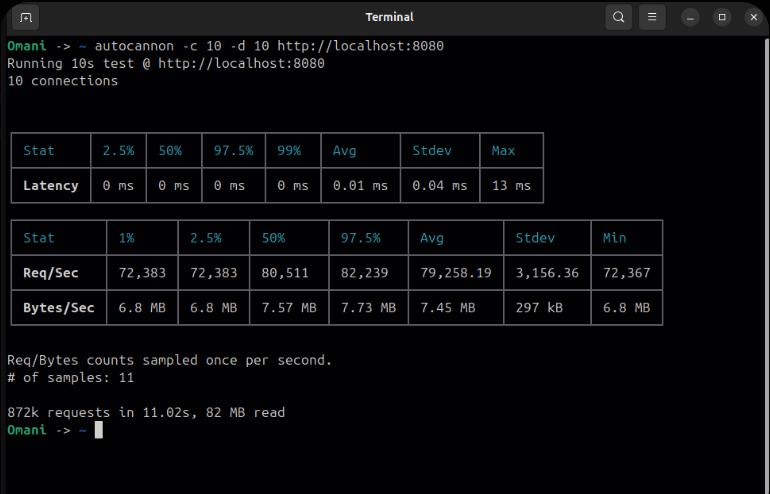
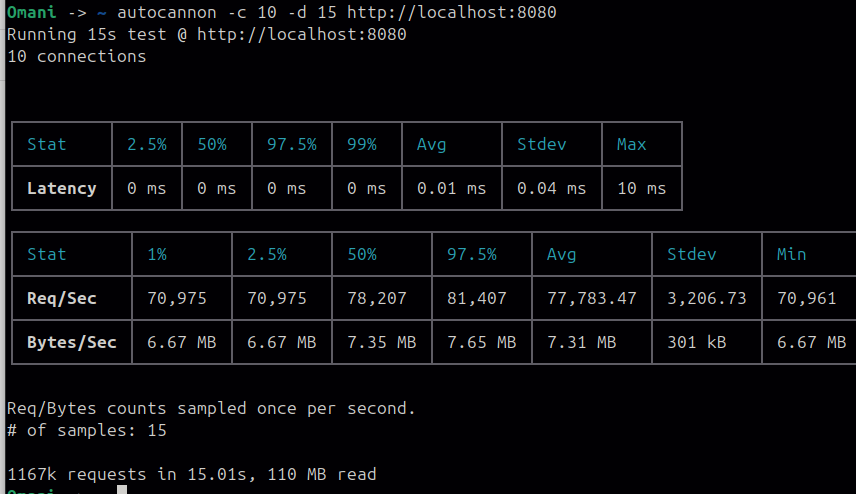
Implement reactor pattern for event handling & Add timeout feature to prevent DDoS attacks

Changed region(s): [[0.0, 0.0, 1.0, 1.0]]

diff --git a/TcpServer.cpp b/TcpServer.cpp
@@ -4,22 +4,28 @@
 #include <sys/socket.h>
 #include <unistd.h>
 #include <errno.h>
+#include <chrono>
+#include <cassert>
+#include <utility>
+#include <list>
+
+using namespace std;
 
 TcpServer::TcpServer(int port) {
-    if (setupSocket(port)) {
-        eventLoop.addEvent(serverSocket, EPOLLIN | EPOLLET);
-    }
+    int serverSocket = setupSocket(port);
+    this->acceptor = new Acceptor(this, serverSocket);
+    eventLoop.addEvent(this->acceptor, EPOLLIN | EPOLLET);
 }
 
 TcpServer::~TcpServer() {
     for (auto &pair: connections) {
-        delete pair.second;
+        delete pair.second.first;
     }
-    close(serverSocket);
+    close(acceptor->getFd());
 }
 
-bool TcpServer::setupSocket(int port) {
-    serverSocket = socket(AF_INET, SOCK_STREAM , 0);
+int TcpServer::setupSocket(int port) {
+    int serverSocket = socket(AF_INET, SOCK_STREAM , 0);
     int opt = 1;
     setsockopt(serverSocket , SOL_SOCKET , SO_REUSEADDR | SO_REUSEPORT , &opt , sizeof(opt));
 
@@ -30,37 +36,63 @@ bool TcpServer::setupSocket(int port) {
 
     bind(serverSocket , (struct sockaddr*)& address , sizeof(address));
     listen(serverSocket , SOMAXCONN);
-    return makeNonBlocking(serverSocket);
-}
-
-void TcpServer::handleNewConnection() {
-    while(true) {
-        struct sockaddr_in clientAddress;
-        socklen_t clientAddressLength = sizeof(clientAddress);
-        int clientSocket = accept(serverSocket , (struct sockaddr*)& clientAddress, &clientAddressLength);
-        
-        if (clientSocket == -1) {
-            if (errno == EAGAIN || errno == EWOULDBLOCK) break;
-            continue;
-        }
-
-        makeNonBlocking(clientSocket);
-        if(!eventLoop.addEvent(clientSocket , EPOLLIN | EPOLLET)) {
-            std::cout << "Failed to add client socket to epoll!" << std::endl;
-            close(clientSocket);
-            continue;
-        }
-
-        connections[clientSocket] = new Connection(clientSocket);
+    if(!makeNonBlocking(serverSocket)) {
+        cout << "Failed to make server socket non-blocking!" << endl;
+        exit(1);
     }
+    return serverSocket;
 }
+
 
 void TcpServer::removeClient(int clientFd) {
     auto it = connections.find(clientFd);
     if (it != connections.end()) {
-        delete it->second;
+        auto nodeList = it->second.second;
+        timeoutList.erase(nodeList);
+        delete it->second.first;
         connections.erase(it);
     }
+
+}
+
+void TcpServer::checkTimeout() {
+
+    if (timeoutList.empty()) return;
+
+    auto now = std::chrono::system_clock::now();
+    
+    while (true) {
+        auto it = timeoutList.begin();
+
+        if (it == timeoutList.end()) break;
+        
+        int fd = *it;
+        auto connection = connections[fd].first;
+        long long diff = chrono::duration_cast<chrono::seconds>(now - connection->getLastActiveTime()).count();
+        
+        if (diff < 3) 
+            break;
+
+        removeClient(fd);
+    }
+
+}
+
+void TcpServer::updateLastActiveTime(int fd) {
+    //1. One single hash map lookup.
+    auto &record = connections[fd]; // pair<Connection*, list<int>::iterator>
+    
+    //2. Update the last active time
+    record.first->setLastActiveTime(chrono::system_clock::now());
+
+    //3. O(1) Snip out the list using saved iterator
+    timeoutList.erase(record.second);
+
+    //4. O(1) Push back to the end of the list cause it is most recent connection
+    timeoutList.push_back(fd);
+
+    //5. Update the map connection with the new iterator
+    record.second = prev(timeoutList.end());
 }
 
 void TcpServer::start() {
@@ -68,20 +100,14 @@ void TcpServer::start() {
     std::vector<epoll_event> activeEvents;
 
     while(true) {
+        
+        checkTimeout();
+
         int numEvents = eventLoop.wait(activeEvents);
 
         for (int i = 0 ; i < numEvents ; i++) {
-            int fd = activeEvents[i].data.fd;
-
-            if (fd == serverSocket) {
-                handleNewConnection();
-            } 
-            else {
-                Connection* connection = connections[fd];
-                if (!connection->handleRead()) {
-                    removeClient(fd);
-                }
-            }
+            EventHandler* handler = static_cast<EventHandler*>(activeEvents[i].data.ptr);
+            handler->handleEvent();
         }
     }
 }

diff --git a/Connection.cpp b/Connection.cpp
@@ -5,8 +5,9 @@
 #include <string>
 #include <cstring>
 #include <sys/socket.h>
+#include <chrono>
 
-Connection::Connection(int fd) : fd(fd) {}
+Connection::Connection(int fd , std::chrono::system_clock::time_point lastActive, std::function<void(int)> onCloseCallback, std::function<void(int)> onReadCallback) : fd(fd) , lastActive(lastActive) , onCloseCallback(onCloseCallback), onReadCallback(onReadCallback) {}
 
 Connection::~Connection() {
     close(fd);
@@ -16,7 +17,7 @@ int Connection::getFd() const {
     return fd;
 }
 
-bool Connection::handleRead() {
+void Connection::handleRead() {
     char buffer[4096] = {0};
 
     while (true) {
@@ -29,18 +30,25 @@ bool Connection::handleRead() {
         else if (bytesRead == -1) {
             if (errno == EAGAIN || errno == EWOULDBLOCK) {
                 if (readBuffer.find("\r\n\r\n") != std::string::npos) {
+                    onReadCallback(this->fd);
                     processRequest();
                     readBuffer.clear();
                 }
-                return true;
+                return ;
             }
             std::cerr << "Read error: " << strerror(errno) << "\n";
-            return false;
+            onCloseCallback(this->fd);
+            return;
         }
         else if(bytesRead == 0) {
-            return false; // Client disconnected
+            onCloseCallback(this->fd);
+            return;
         }
     }
+}
+
+void Connection::handleEvent() {
+    handleRead();
 }
 
 void Connection::processRequest() {
@@ -55,3 +63,13 @@ void Connection::sendResponse(int contentLength , const std::string &response) {
     
     send(fd , fullResponse.c_str() , fullResponse.size() , MSG_NOSIGNAL);
 }
+
+std::chrono::system_clock::time_point Connection::getLastActiveTime() {
+    return lastActive;
+}
+
+void Connection::setLastActiveTime(std::chrono::system_clock::time_point lastActive) {
+    this->lastActive = lastActive;
+}
+
+

diff --git a/Acceptor.cpp b/Acceptor.cpp
@@ -1,0 +1,55 @@
+#include "Acceptor.hpp"
+#include "Utils.hpp"
+#include "Connection.hpp"
+#include "TcpServer.hpp"
+#include <sys/socket.h>
+#include <errno.h>
+#include <iostream>
+#include <unistd.h>
+#include <arpa/inet.h>
+#include <sys/epoll.h>
+
+using namespace std;
+
+Acceptor::Acceptor(TcpServer* server ,int serverSocket) : serverSocket(serverSocket) , server(server) {}
+
+int Acceptor::getFd() const {
+    return serverSocket;
+}
+
+void Acceptor::handleEvent() {
+    handleNewConnection();
+}
+
+void Acceptor::handleNewConnection() {
+    while(true) {
+        struct sockaddr_in clientAddress;
+        socklen_t clientAddressLength = sizeof(clientAddress);
+        int clientSocket = accept(serverSocket , (struct sockaddr*)& clientAddress , &clientAddressLength);
+
+        if (clientSocket == -1) {
+            if (errno == EAGAIN || errno == EWOULDBLOCK) break;
+            continue;
+        }
+
+        makeNonBlocking(clientSocket);
+        
+        //Assigning callbacks
+        auto onCloseCallback = [this](int fd) { this->server->removeClient(fd); };
+        auto onReadCallback = [this](int fd) { this->server->updateLastActiveTime(fd); };
+
+        //Create connection object
+        auto connection = new Connection(clientSocket , std::chrono::system_clock::now() , onCloseCallback , onReadCallback);
+
+        //set the last active time and add to timeout list
+        server->timeoutList.push_back(clientSocket);
+        auto listIterator = prev(server->timeoutList.end());
+        server->connections[clientSocket] = {connection , listIterator};
+
+        if (!server->eventLoop.addEvent(connection, EPOLLIN | EPOLLET)) {
+            std::cout << "Failed to add client socket to epoll!" << std::endl;
+            close(clientSocket);
+            continue;
+        }
+    }
+}

diff --git a/Connection.hpp b/Connection.hpp
@@ -1,18 +1,28 @@
 #pragma once
+#include "EventHandler.hpp"
 #include <string>
+#include <ctime>
+#include <chrono>
+#include <functional>
 
-class Connection {
+class Connection : public EventHandler {
 private:
     int fd;
+    std::chrono::system_clock::time_point lastActive;
     std::string readBuffer;
+    std::function<void(int)> onCloseCallback;
+    std::function<void(int)> onReadCallback;
     
     void processRequest();
     void sendResponse(int contentLength , const std::string& response) ;
 
 public:
-    Connection(int fd);
+    Connection(int fd , std::chrono::system_clock::time_point lastActive , std::function<void(int)> onCloseCallback, std::function<void(int)> onReadCallback);
     ~Connection();
 
-    int getFd() const;
-    bool handleRead(); // return false if the client disconnected
+    int getFd() const override;
+    std::chrono::system_clock::time_point getLastActiveTime();
+    void setLastActiveTime(std::chrono::system_clock::time_point lastActive);
+    void handleRead(); // return false if the client disconnected
+    void handleEvent() override;
 };

diff --git a/EventLoop.cpp b/EventLoop.cpp
@@ -1,3 +1,4 @@
+#include "EventHandler.hpp"
 #include "EventLoop.hpp"
 #include <iostream>
 #include <unistd.h>
@@ -14,14 +15,14 @@ EventLoop::~EventLoop() {
     close(epollFd);
 }
 
-bool EventLoop::addEvent(int fd , uint32_t events) {
+bool EventLoop::addEvent(EventHandler* handler , uint32_t events) {
     struct epoll_event event;
     event.events = events;
-    event.data.fd = fd;
-    return epoll_ctl(epollFd , EPOLL_CTL_ADD , fd , &event) != -1;
+    event.data.ptr = handler;
+    return epoll_ctl(epollFd , EPOLL_CTL_ADD , handler->getFd() , &event) != -1;
 }
 
 int EventLoop::wait(std::vector<epoll_event>& activeEvents) {
     activeEvents.resize(MAX_EVENTS);
-    return epoll_wait(epollFd , activeEvents.data() , MAX_EVENTS , -1);
+    return epoll_wait(epollFd , activeEvents.data() , MAX_EVENTS , 1000);
 }

diff --git a/TcpServer.hpp b/TcpServer.hpp
@@ -1,18 +1,25 @@
 #pragma once
-#include "EventLoop.hpp"
+#include "Acceptor.hpp"
 #include "Connection.hpp"
+#include "EventLoop.hpp"
 #include <unordered_map>
 #include <netinet/in.h>
+#include <list>
+#include <utility>
+
 
 class TcpServer {
 private:
-    int serverSocket;
+    friend class Acceptor;
+    Acceptor *acceptor;
     EventLoop eventLoop;
-    std::unordered_map<int, Connection*> connections;
+    std::unordered_map<int, std::pair<Connection*, std::list<int>::iterator>> connections;
+    std::list<int>timeoutList;
 
-    bool setupSocket(int port);
-    void handleNewConnection();
+    int setupSocket(int port);
     void removeClient(int clientFd);
+    void updateLastActiveTime(int fd);
+    void checkTimeout();
 
 public:
     TcpServer(int port);

diff --git a/Acceptor.hpp b/Acceptor.hpp
@@ -1,0 +1,17 @@
+#pragma once
+#include "EventHandler.hpp"
+
+class TcpServer; // for compiler to know the class is exists
+
+class Acceptor : public EventHandler {
+private:
+    int serverSocket;
+    TcpServer* server;
+    void handleNewConnection();
+
+public:
+    Acceptor() = default;
+    Acceptor(TcpServer* server , int serverSocket);
+    int getFd() const override ;
+    void handleEvent() override;
+};

diff --git a/EventLoop.hpp b/EventLoop.hpp
@@ -1,4 +1,5 @@
 #pragma once
+#include "EventHandler.hpp"
 #include <sys/epoll.h>
 #include <vector>
 
@@ -12,6 +13,6 @@ public:
     EventLoop();
     ~EventLoop();
 
-    bool addEvent(int fd , uint32_t events);
+    bool addEvent(EventHandler* handler , uint32_t events);
     int wait(std::vector<epoll_event>& activeEvents);
 };

diff --git a/EventHandler.hpp b/EventHandler.hpp
@@ -1,0 +1,8 @@
+#pragma once
+
+class EventHandler {
+public:
+    virtual int getFd() const = 0;
+    virtual void handleEvent() = 0;
+    virtual ~EventHandler() = default;
+};
